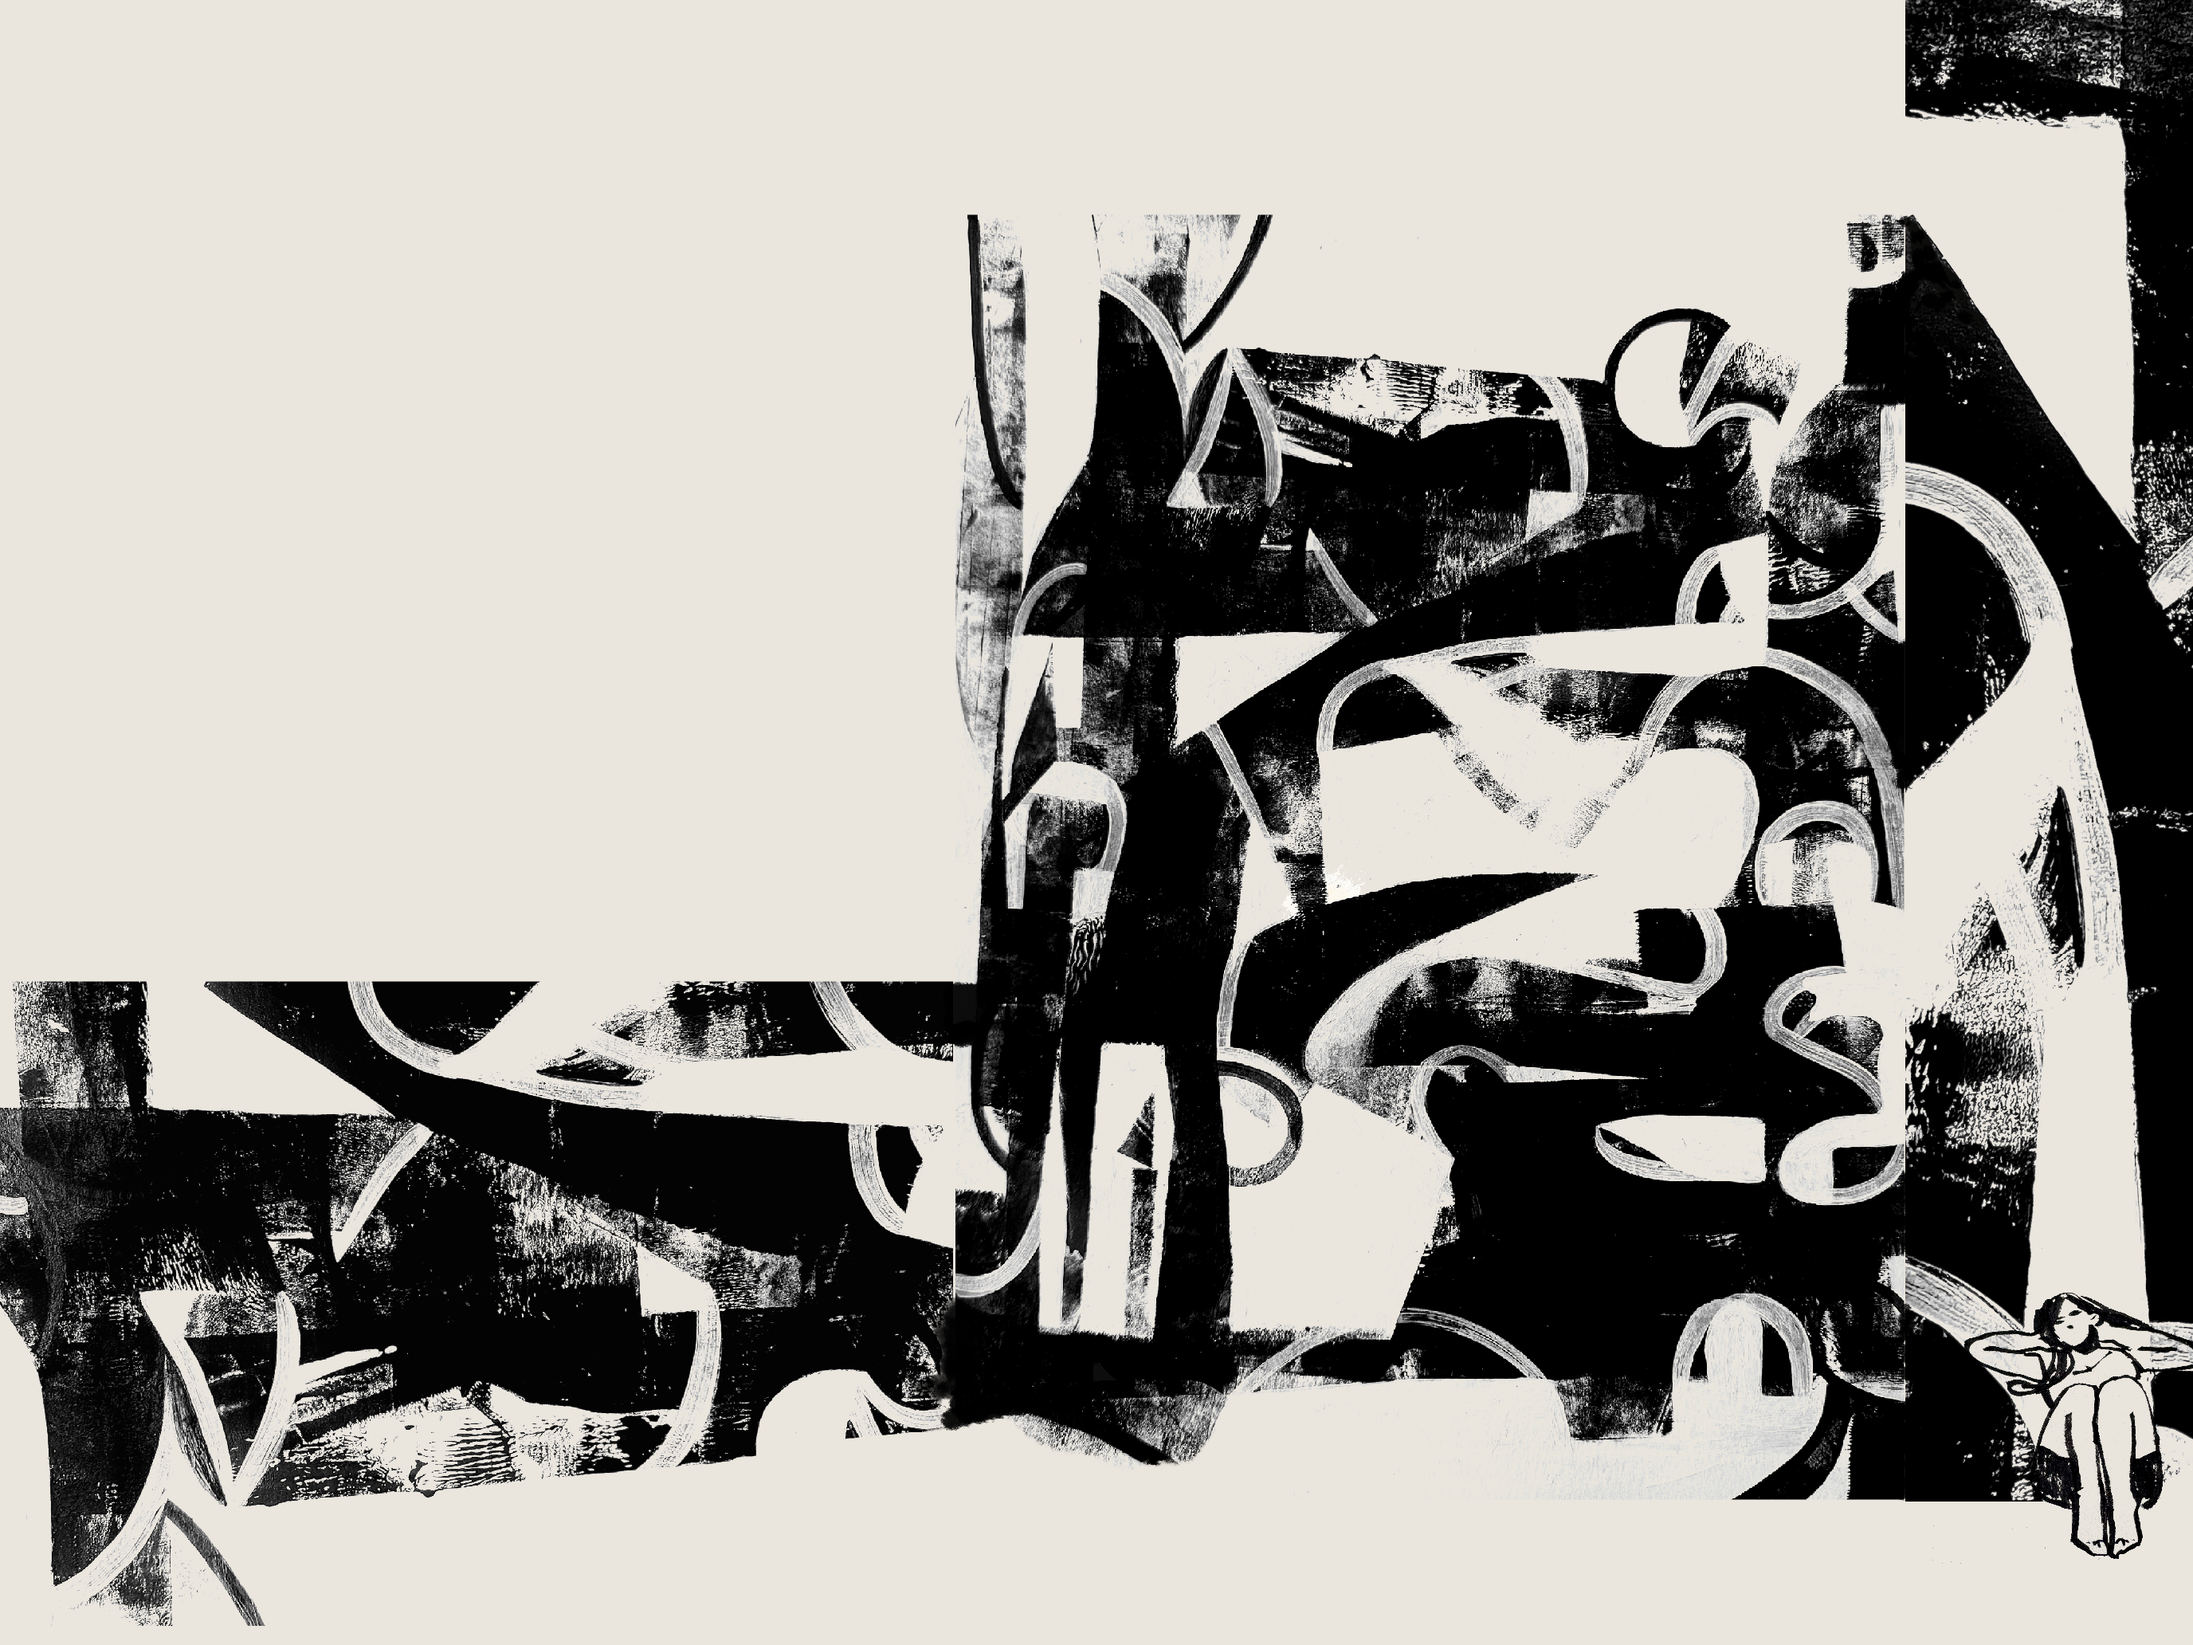
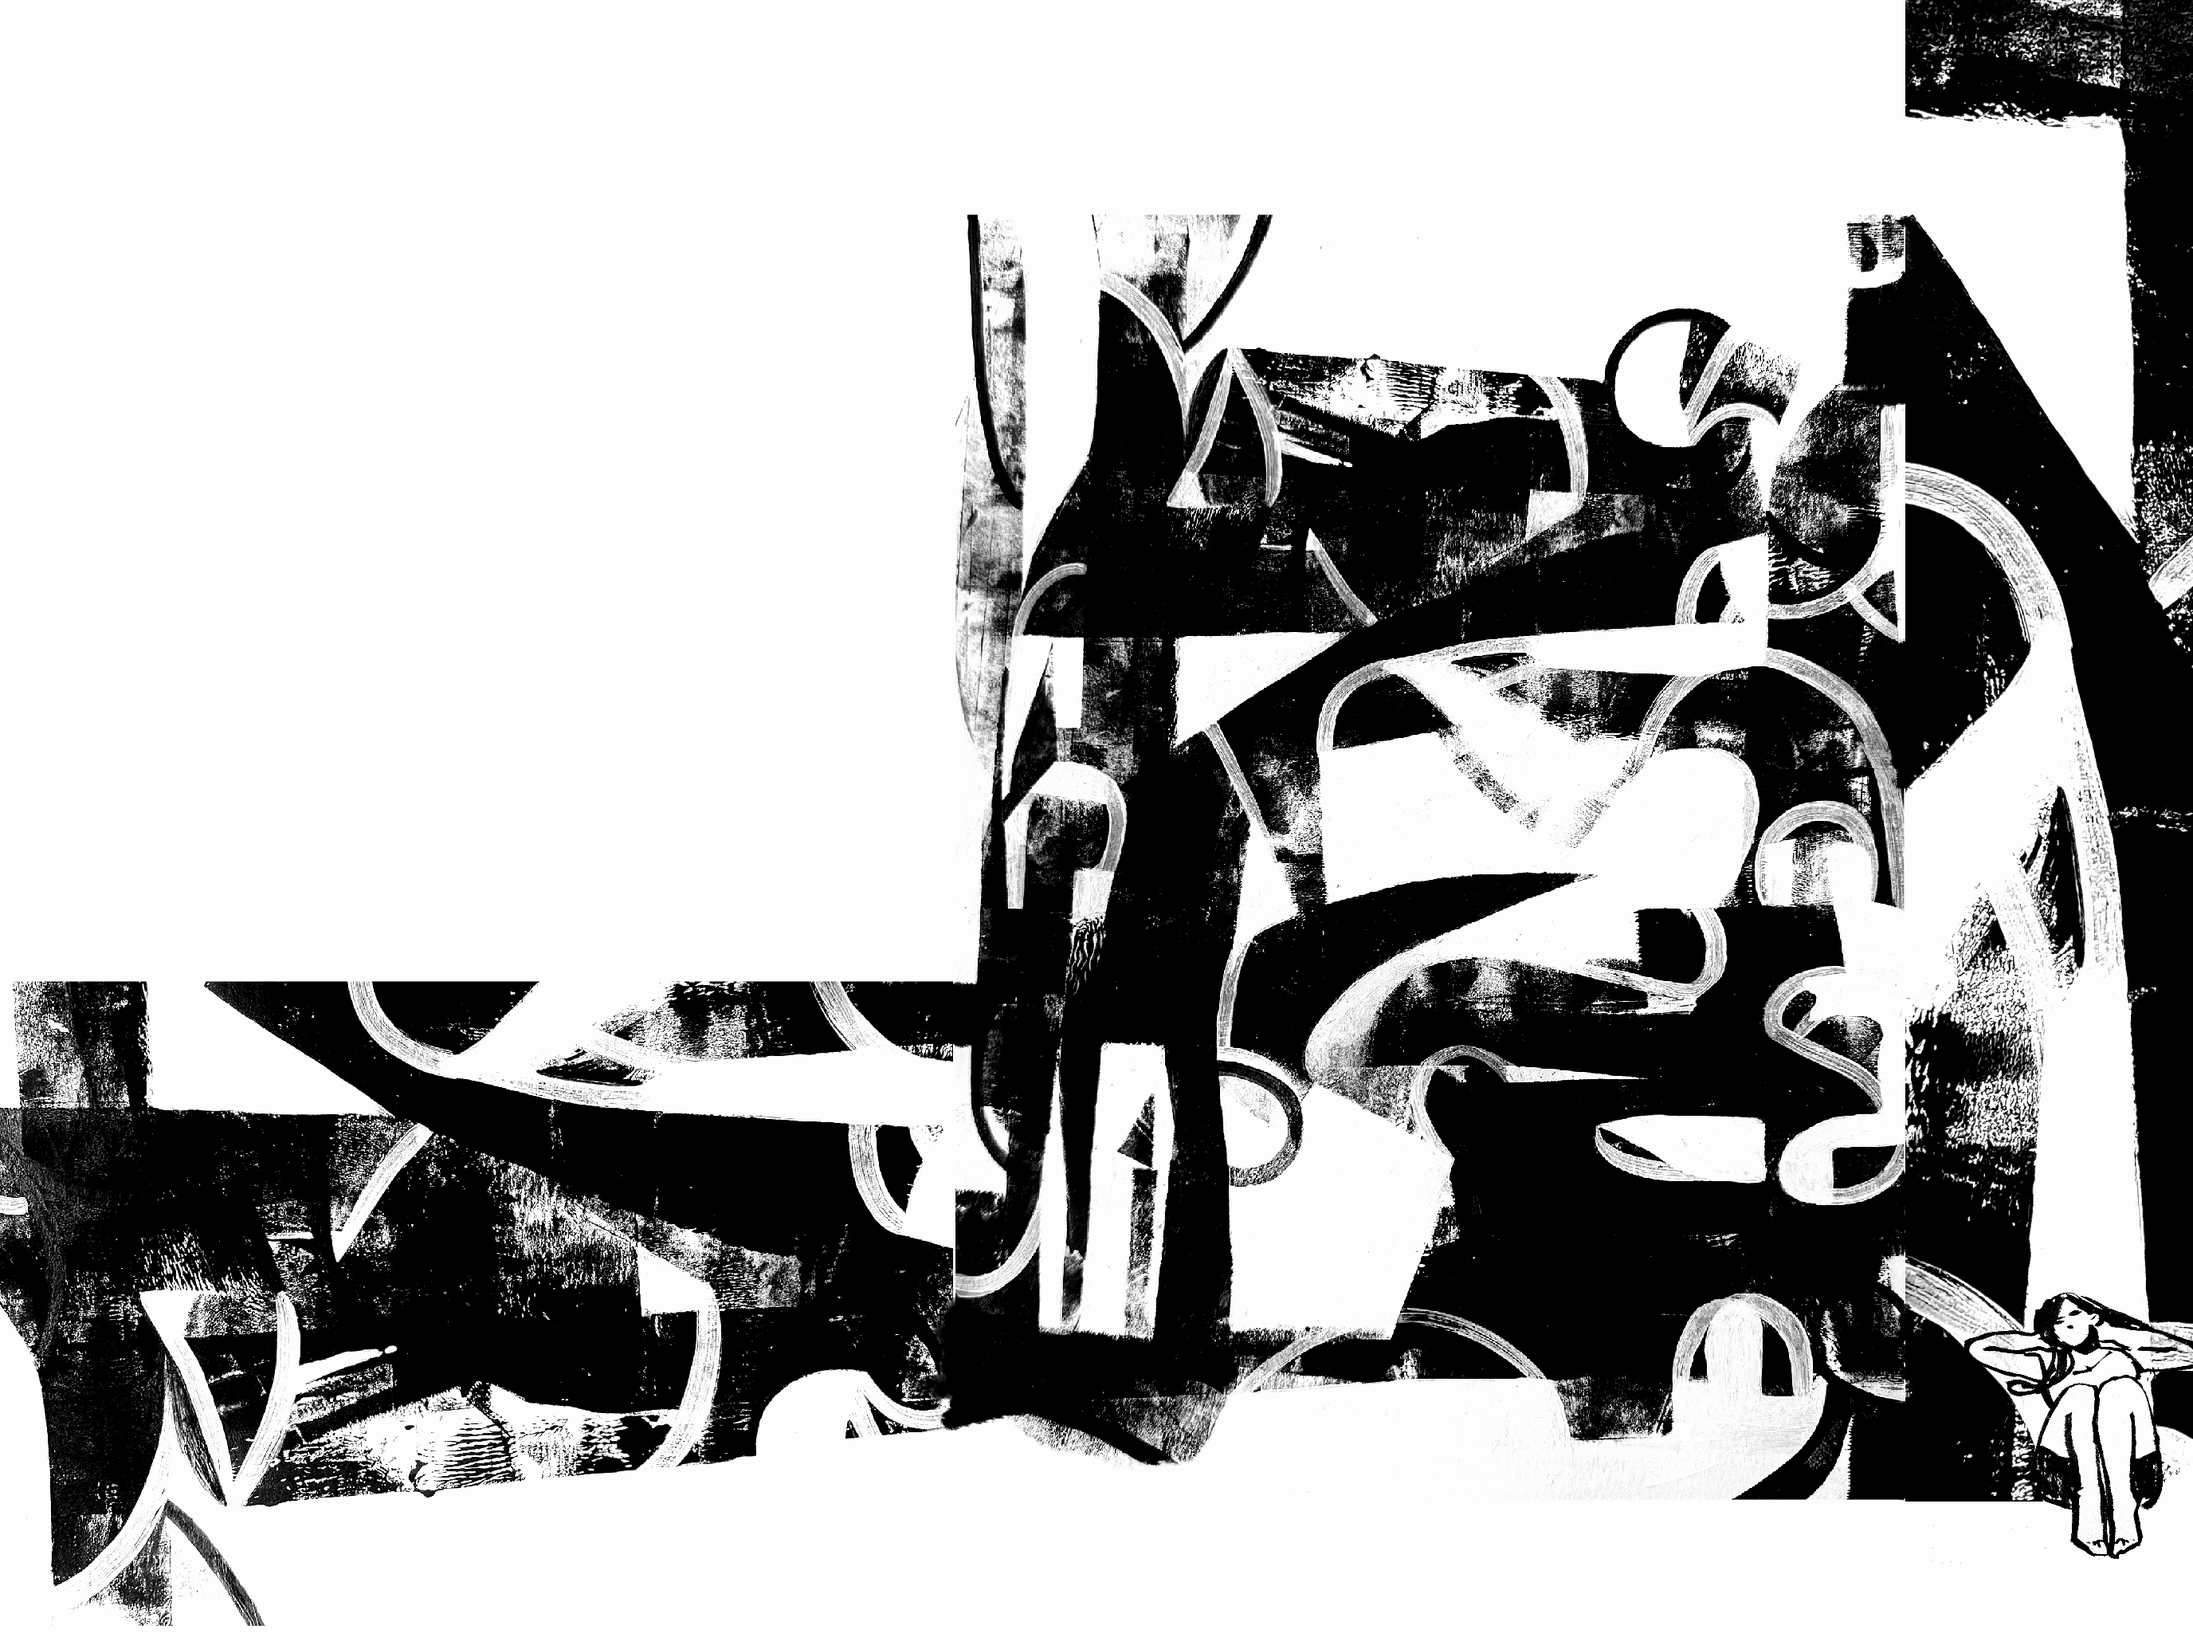
procedural routes for image pages

diff --git a/pages/info.html b/pages/info.html
@@ -7,49 +7,18 @@
     gap: 2rem;
   }
 
-  .contact {
-    display: flex;
-    flex-direction: column;
-    text-align: center;
-    justify-self: center;
-    margin-top: 1rem;
+  #headshot {
+    width: 50%;
+    height: auto;
+    box-shadow: var(--border) 0px 0px 10px;
   }
-
 
   @media (max-width: 930px) {
     .info-container {
-      margin: 2rem 2rem 0 2rem;
-      flex-direction: column;
-      justify-content: center;
-    }
-
-    #dev-env {
-      display: none;
     }
   }
 </style>
 
 <div class="info-container">
-  <div id="site-info">
-    <easy-table header="Site Info"
-      row-aesthetic-inspration="seated.ro:seated.ro, Us-Graphics-Company:usgraphics.com, Geth:geth.ethereum.org, K.O.-II:teenage.engineering/products/ep-133, Macintosh:infinitemac.org/1997/Mac%20OS%207.6  "
-      row-frontend="Vanilla Css, Web-Components:developer.mozilla.org/en-US/docs/Web/API/Web_components#custom_elements_2, HTMX:htmx.org"
-      row-backend="Zig:github.com/voidKandy/zortfolio">
-    </easy-table>
-  </div>
-
-
-  <div style="display: flex; flex-grow: 1;flex-direction: column; ">
-    <easy-table id="dev-env" header="Dev Environment" row-editor="helix:helix-editor.com"
-      row-terminal="ghostty:ghostty.org" row-keyboard="voyager:www.zsa.io/voyager" row-machine="14-inch M2 MacBook Pro">
-    </easy-table>
-
-    <div class="contact">
-      <a href="mailto:voidkandy@gmail.com" target="_blank">voidkandy@gmail.com</a>
-      <a href="https://github.com/voidKandy" target="_blank">
-        github.com/voidKandy </a>
-      <a href="https://x.com/KandyVoid" target="_blank">
-        x.com/KandyVoid </a>
-    </div>
-  </div>
+  <img id="headshot" src="imgs/headshot.jpeg" alt="Denise Klitsie" />
 </div>

diff --git a/pages/index.html b/pages/index.html
@@ -106,15 +106,25 @@
         />
       </div>
 
+      <div id="img-modal">
+        <img id="img-modal-content" />
+      </div>
       <div style="display: flex; flex-direction: column; flex-grow: 1">
         <nav-router
           routes="Home, Info, Editorial, PictureBook, Sketch, Portraits"
           target="#route-content"
         >
         </nav-router>
+
         <div id="route-content" hx-history-elt>{|.route_content|}</div>
       </div>
-      <footer style="margin-top: 1rem"></footer>
+      <footer style="margin-top: 1rem">
+        <img
+          src="imgs/palettePNG.png"
+          alt="palette"
+          style="max-height: 25vh; max-width: 100%; object-fit: contain"
+        />
+      </footer>
     </div>
   </body>
 </html>

diff --git a/pages/home.html b/pages/home.html
@@ -1,32 +1,4 @@
-<style>
-  .img-container {
-    display: inline-block;
-    border-radius: 10rem;
-    border: 3px solid var(--primary-orange);
-    overflow: hidden;
-    width: 20vw;
-    height: 20vw;
-    max-width: 150px;
-    max-height: 150px;
-  }
-
-  img {
-    width: 100%;
-    height: 100%;
-    object-fit: cover;
-    object-position: center;
-    filter: saturate(0%);
-  }
-
-  h1 {
-    padding: 0;
-    margin: 0;
-    border-bottom: 5px double;
-  }
-
-  @media (max-width: 930px) {
-  }
-</style>
+<style></style>
 
 <div style="display: flex; flex-direction: column">
   <div style="display: flex; flex-direction: column; margin: 1rem">

diff --git a/serve/styles/global.css b/serve/styles/global.css
@@ -7,7 +7,11 @@
   --border: #000000;
   --button-bg: #d1c4b6;
 
-  --box-shadow-color: var(--border);
+  --brown: #9c512d;
+  --red: #ff4204;
+  --blue: #528ab1;
+  --yellow: #f7ad02;
+  --peach: #fb9155;
 }
 
 body {

diff --git a/pages/editorial.html b/pages/editorial.html
@@ -3,7 +3,3 @@
   <drive-image id="{|.id|}"> </drive-image>
   ||zz endfor zz||
 </div>
-
-<div id="img-modal">
-  <img id="img-modal-content" />
-</div>

diff --git a/pages/picture_book.html b/pages/picture_book.html
@@ -1,0 +1,5 @@
+<div>
+  ||zz for .image_items zz||
+  <drive-image id="{|.id|}"> </drive-image>
+  ||zz endfor zz||
+</div>

diff --git a/pages/portraits.html b/pages/portraits.html
@@ -1,0 +1,5 @@
+<div>
+  ||zz for .image_items zz||
+  <drive-image id="{|.id|}"> </drive-image>
+  ||zz endfor zz||
+</div>

diff --git a/pages/sketch.html b/pages/sketch.html
@@ -1,0 +1,5 @@
+<div>
+  ||zz for .image_items zz||
+  <drive-image id="{|.id|}"> </drive-image>
+  ||zz endfor zz||
+</div>
